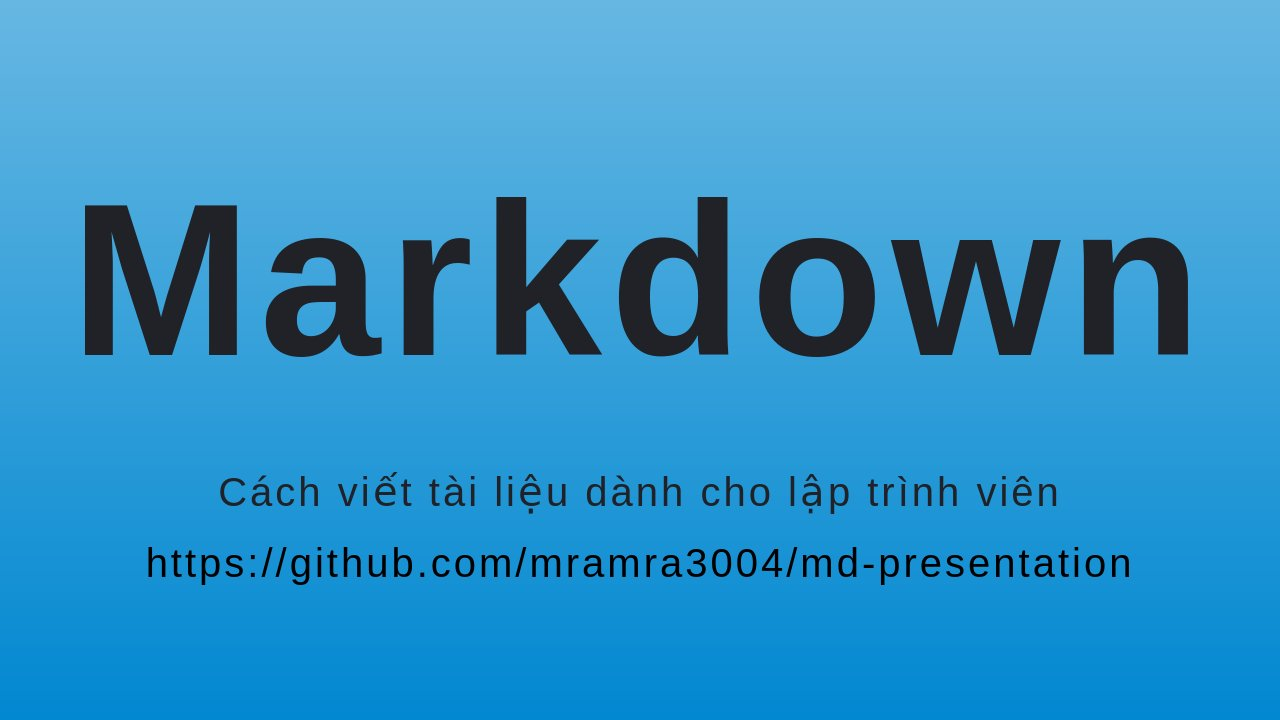
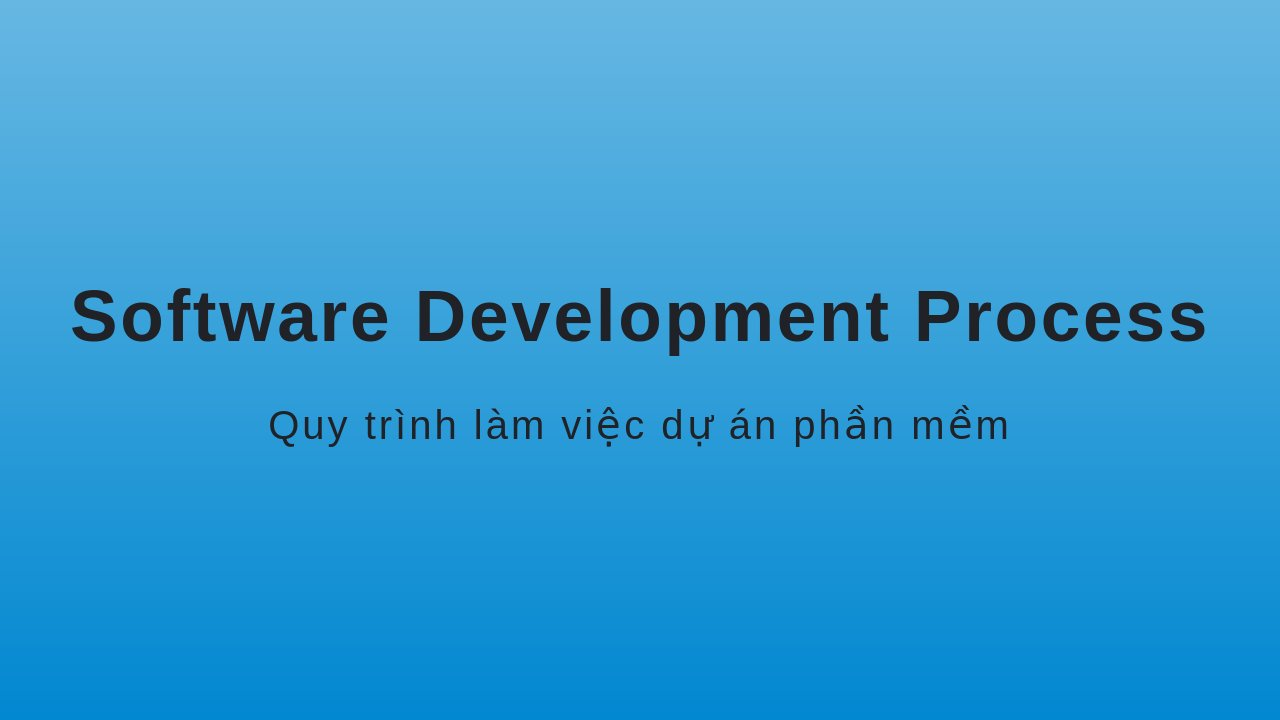
Deploying to gh-pages from  @ fbfc29f012ac3bf034acf1e1bc7ace6bca758d08 🚀

diff --git a/index.html b/index.html
@@ -1,4 +1,4 @@
[2 lines of base64/hex data omitted]
 /*!
  * Marp / Marpit Uncover theme
  *
@@ -9,9 +9,8 @@
  * @size 16:9 1280px 720px
  * @size 4:3 960px 720px
[1 lines of base64/hex data omitted]
-<h1><svg data-marp-fitting="svg"><foreignObject><span data-marp-fitting-svg-content> Markdown</span></foreignObject></svg></h1>
-<p>Cách viết tài liệu dành cho lập trình viên</p>
-<p><a href="https://github.com/mramra3004/md-presentation">https://github.com/mramra3004/md-presentation</a></p>
+<h1><svg data-marp-fitting="svg"><foreignObject><span data-marp-fitting-svg-content> Software Development Process</span></foreignObject></svg></h1>
+<p>Quy trình làm việc dự án phần mềm</p>
 </section>
 </foreignObject></svg><svg data-marpit-svg="" viewBox="0 0 1280 720"><foreignObject width="1280" height="720"><section data-paginate="true" data-background-image="linear-gradient(to bottom, #67b8e3, #0288d1)" data-theme="uncover" data-marpit-pagination="2" data-marpit-pagination-total="8" style="--paginate:true;--background-image:linear-gradient(to bottom, #67b8e3, #0288d1);--theme:uncover;background-image:linear-gradient(to bottom, #67b8e3, #0288d1);background-position:center;background-repeat:no-repeat;background-size:cover;" data-marpit-advanced-background="background"><div data-marpit-advanced-background-container="true" data-marpit-advanced-background-direction="horizontal"><figure style="background-image:url(&quot;https://raw.githubusercontent.com/mramra3004/md-presentation/master/assets/kisspng-markdown-computer-icons-text-editor-5b087c0f7dc464.0959796815272827035152.png&quot;);background-size:60%;"></figure></div></section></foreignObject><foreignObject width="1280" height="720"><section id="2" data-paginate="true" data-background-image="linear-gradient(to bottom, #67b8e3, #0288d1)" data-theme="uncover" data-marpit-pagination="2" data-marpit-pagination-total="8" style="--paginate:true;--background-image:linear-gradient(to bottom, #67b8e3, #0288d1);--theme:uncover;background-image:linear-gradient(to bottom, #67b8e3, #0288d1);background-position:center;background-repeat:no-repeat;background-size:cover;" data-marpit-advanced-background="content"></section>
 </foreignObject><foreignObject width="1280" height="720" data-marpit-advanced-background="pseudo"><section style="" data-marpit-advanced-background="pseudo" data-marpit-pagination="2" data-marpit-pagination-total="8"></section></foreignObject></svg><svg data-marpit-svg="" viewBox="0 0 1280 720"><foreignObject width="1280" height="720"><section id="3" data-paginate="true" data-background-image="linear-gradient(to bottom, #67b8e3, #0288d1)" data-theme="uncover" data-marpit-pagination="3" data-marpit-pagination-total="8" style="--paginate:true;--background-image:linear-gradient(to bottom, #67b8e3, #0288d1);--theme:uncover;background-image:linear-gradient(to bottom, #67b8e3, #0288d1);background-position:center;background-repeat:no-repeat;background-size:cover;">
